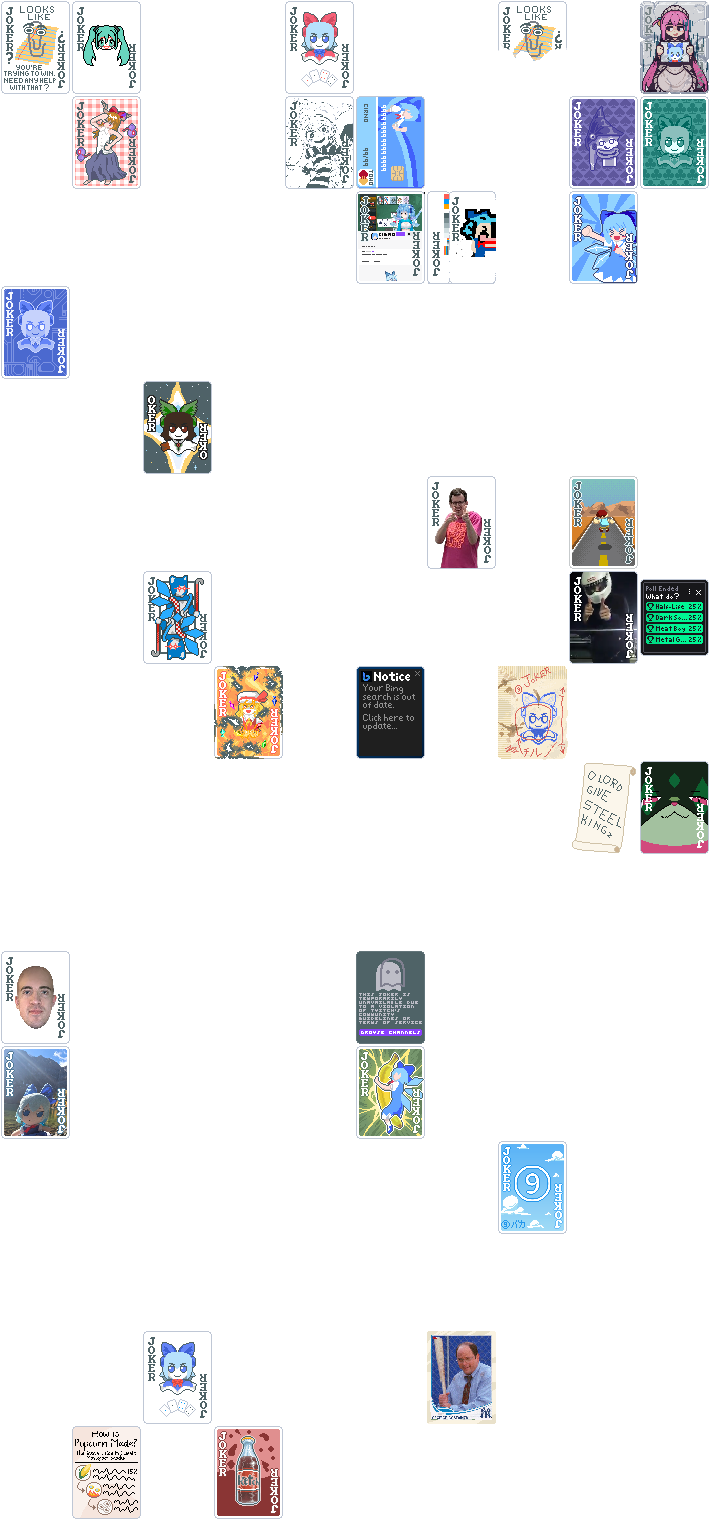
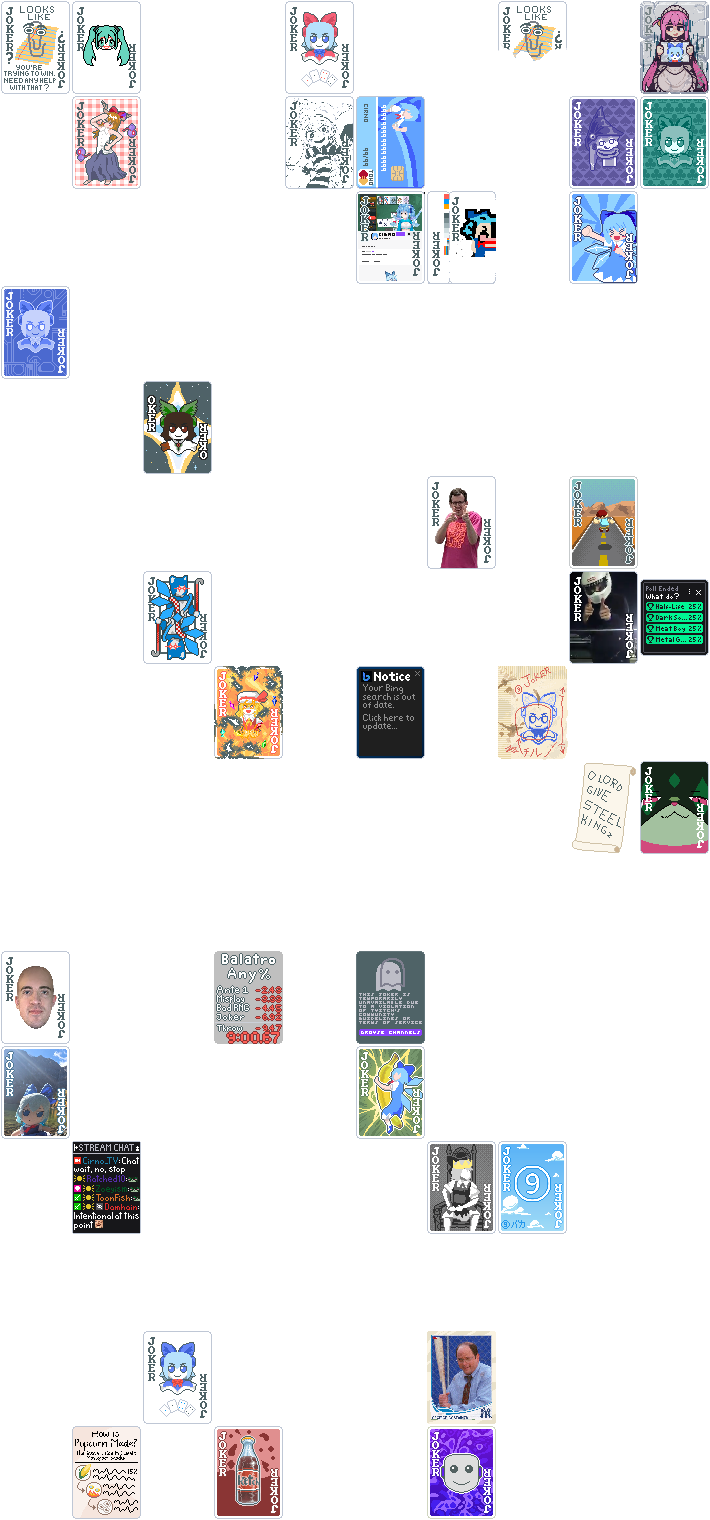
4 new Joker retextures
Added new textures for Runner (now Speedrunner), Riff-Raff (Now Twitch Chart), Baron (now Gigachad) & Smiley Face, with renames and fun description flavour for the first three - Related metadata adjusted accordingly.

Minor adjustments to various things, including art credit listings.

diff --git a/README.md b/README.md
@@ -1,7 +1,7 @@
 # Cirno_TV And Friends
 A Balatro mod themed around [Cirno_TV](https://www.twitch.tv/Cirno_TV/), with various references & memes.
 
-**WARNING:** Cirno_TV & Friends isn't strictly a NSFW mod, but it does contain a handful of stream-safe mature references in relation to community inside jokes. This mod is *NOT* intended for children. The mature references are disabled by default, but can be enabled in the mod's config settings (Config setting changes require a game restart to take effect).
+**WARNING:** Cirno_TV & Friends isn't strictly a NSFW mod, but it does contain a handful of overt, stream-safe mature references in relation to community inside jokes. This mod is *NOT* intended for children. The mature references are disabled by default, but can be enabled in the mod's config settings (Config setting changes require a game restart to take effect).
 
 ![CTVaF Logo](https://i.imgur.com/CcRk9nq.png)
 
@@ -15,7 +15,7 @@ DaemonTsun's art contributions are public domain - Some memes or pictures are no
 
 **Cirno_TV & Friends** currently:
 Retextures:
-- 43 Jokers (3 filtered & 3 altered by the Mature Reference setting)
+- 47 Jokers (3 filtered & 3 altered by the Mature Reference setting)
 - All Blind Chips
 - All seals
 - 3 Decks
